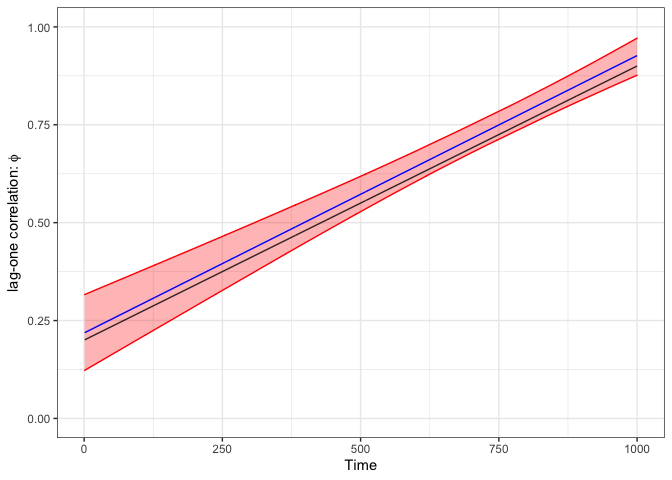
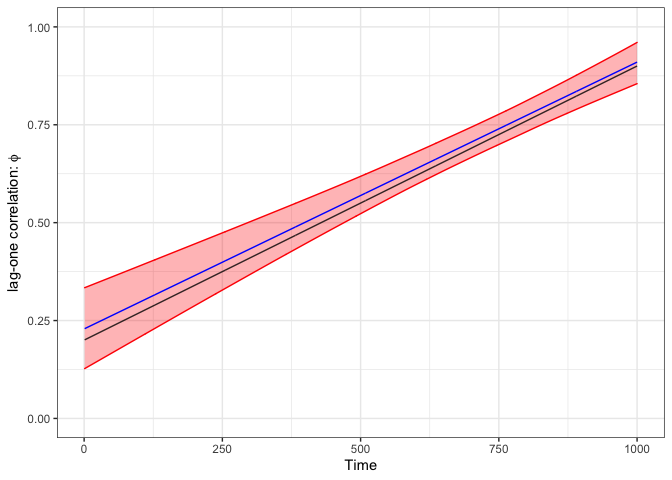
Updated text in example in README

diff --git a/README.md b/README.md
@@ -25,9 +25,7 @@ devtools::install_github("eirikmn/INLA.ews")
 
 This is a basic example which shows you how to use the package to
 perform Bayesian analysis of a simulated time series which exhibit early
-warning signals in the form of increasing correlation. The ‘true’
-development of the autocorrelation coefficient is included in the
-resulting plot.
+warning signals in the form of increasing correlation.
 
 ``` r
 library(INLA.ews)
@@ -45,14 +43,17 @@ for(i in 2:n){
 object = inla.ews(data,model="ar1", memory.true=phis)
 ```
 
-    #> Loading required package: ggplot2
+The plot below shows the estimated posterior marginal mean for the
+lag-one correlation coefficient in the above example, with 95% credible
+intervals included. The black line represents the ‘true’ development of
+the memory.
 
-<img src="man/figures/README-plot-1.png" width="100%" />
+<img src="man/figures/README-plot-1.png" width="80%" />
 
 ## Attribution
 
 This code is associated and written for an upcoming paper. Feel free to
-use the code, but please cite the accompanying paper (when they are
+use the code, but please cite the accompanying paper (when it is
 published).
 
 ## License
